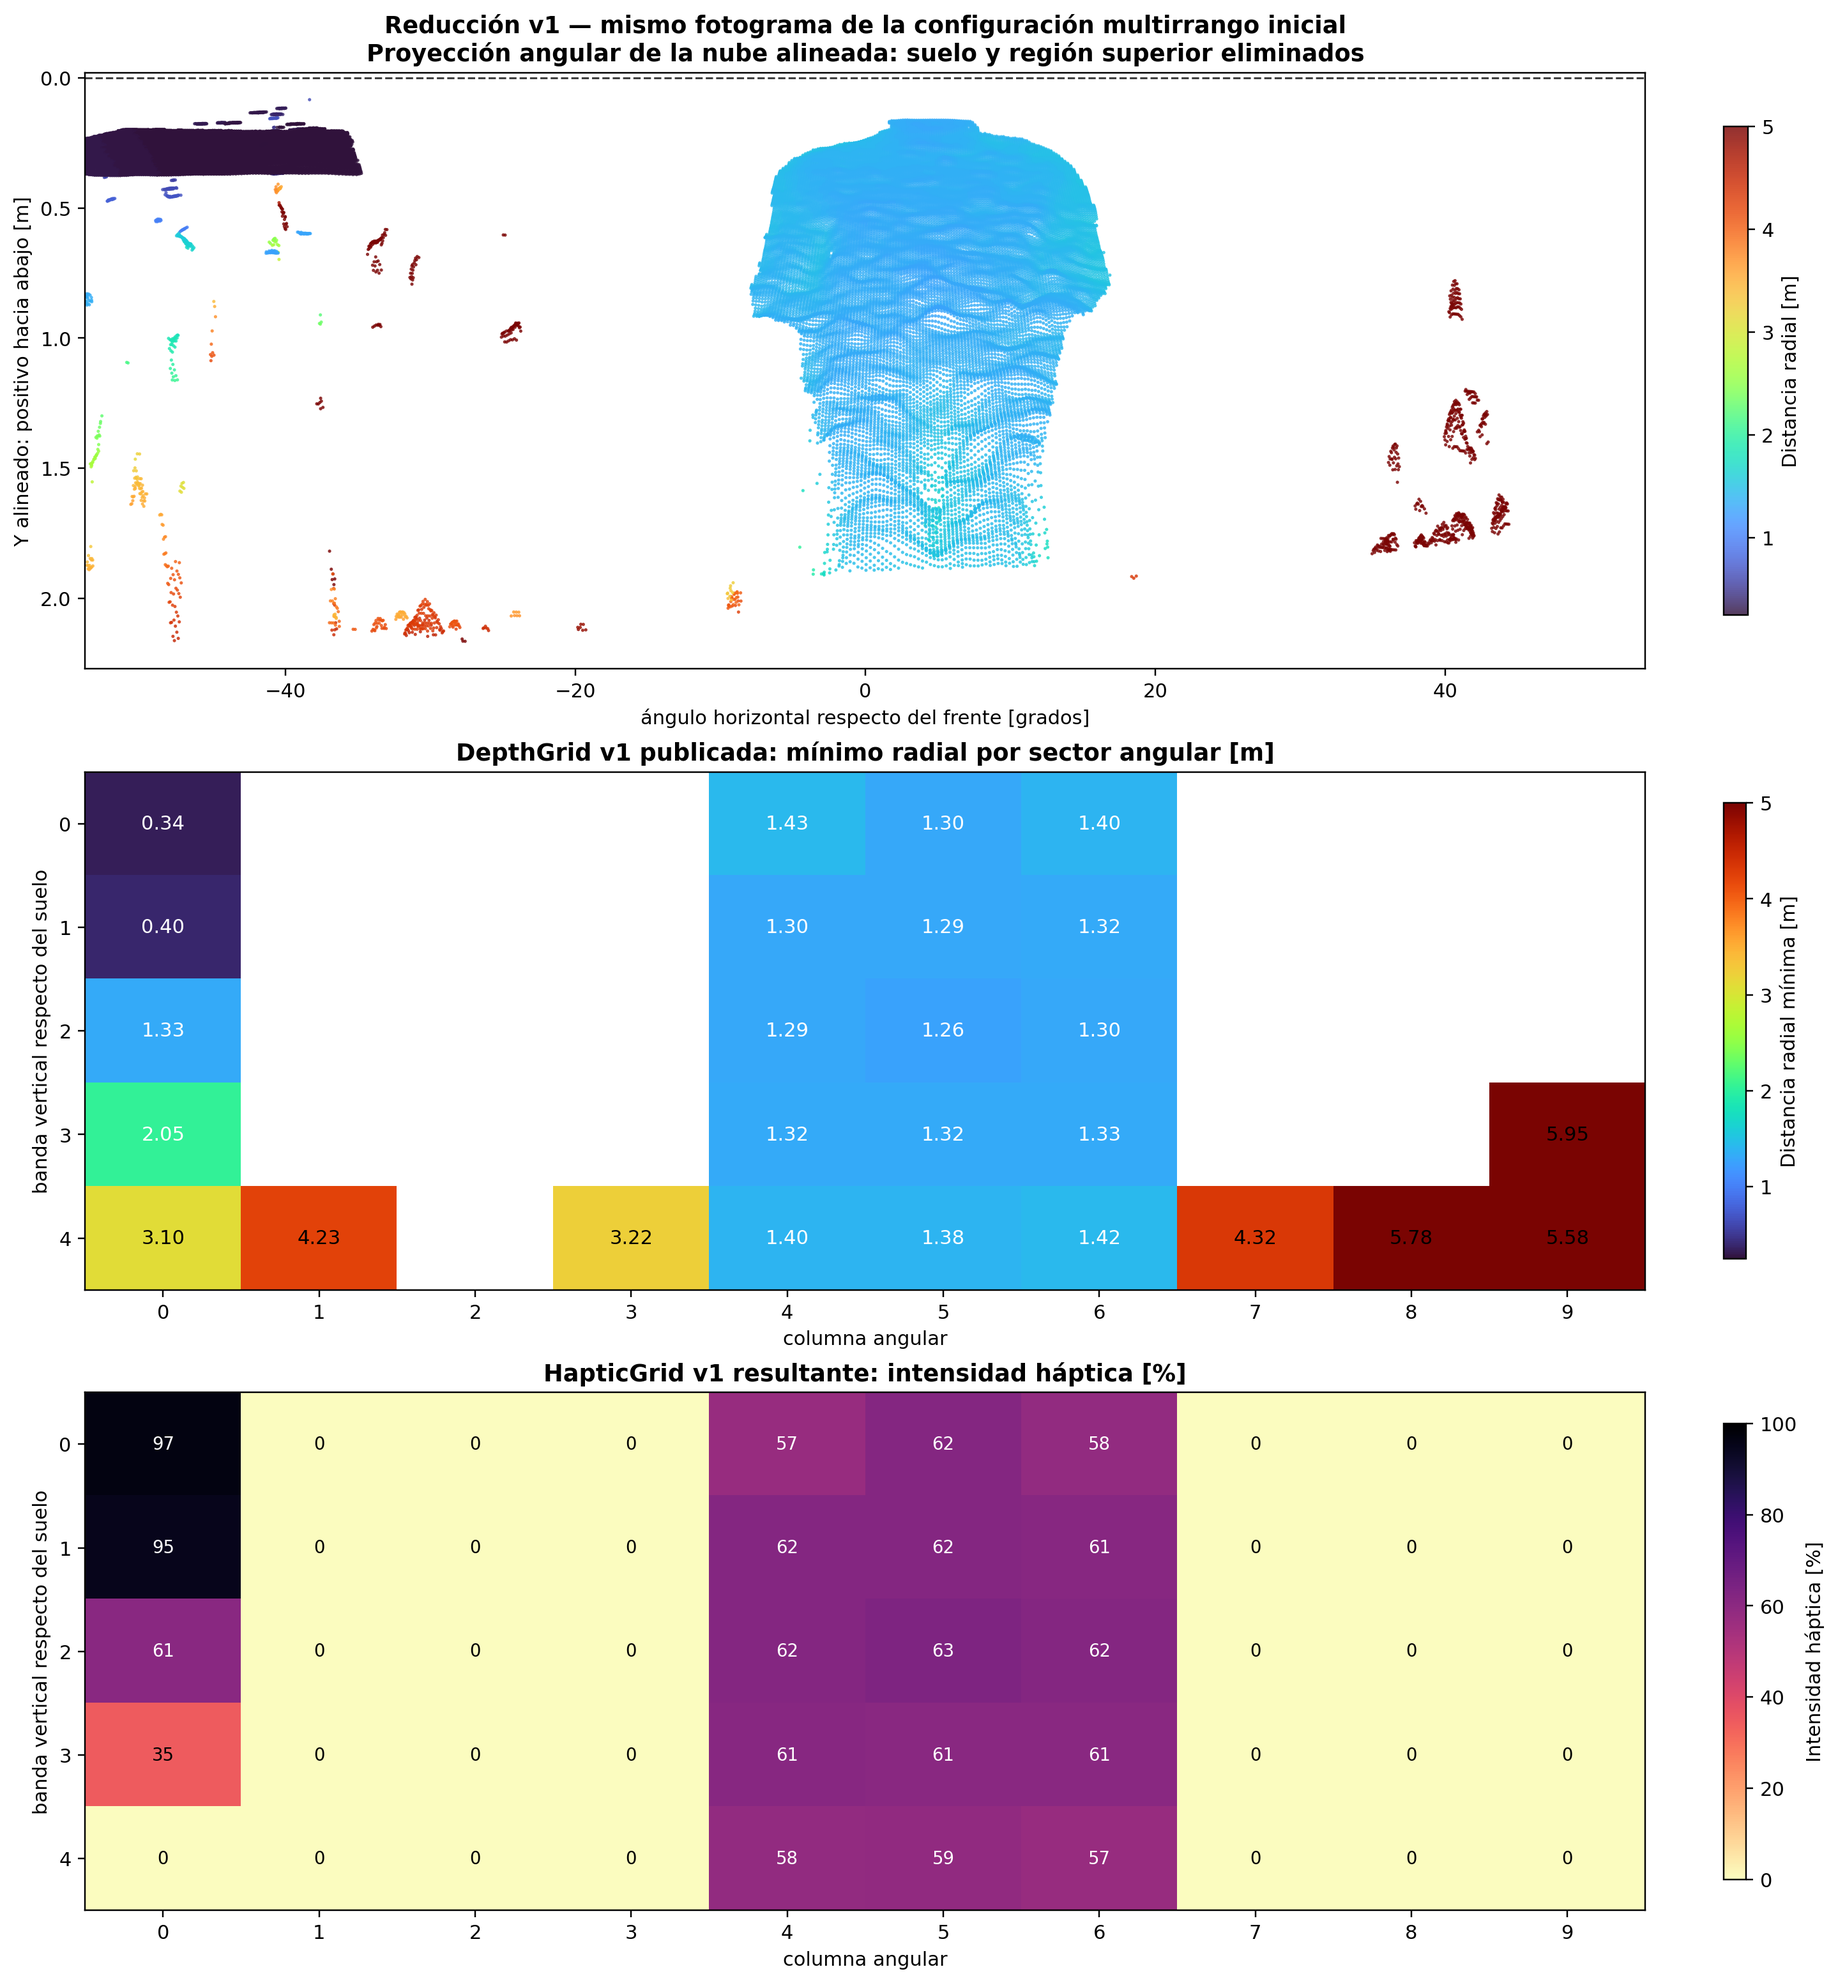
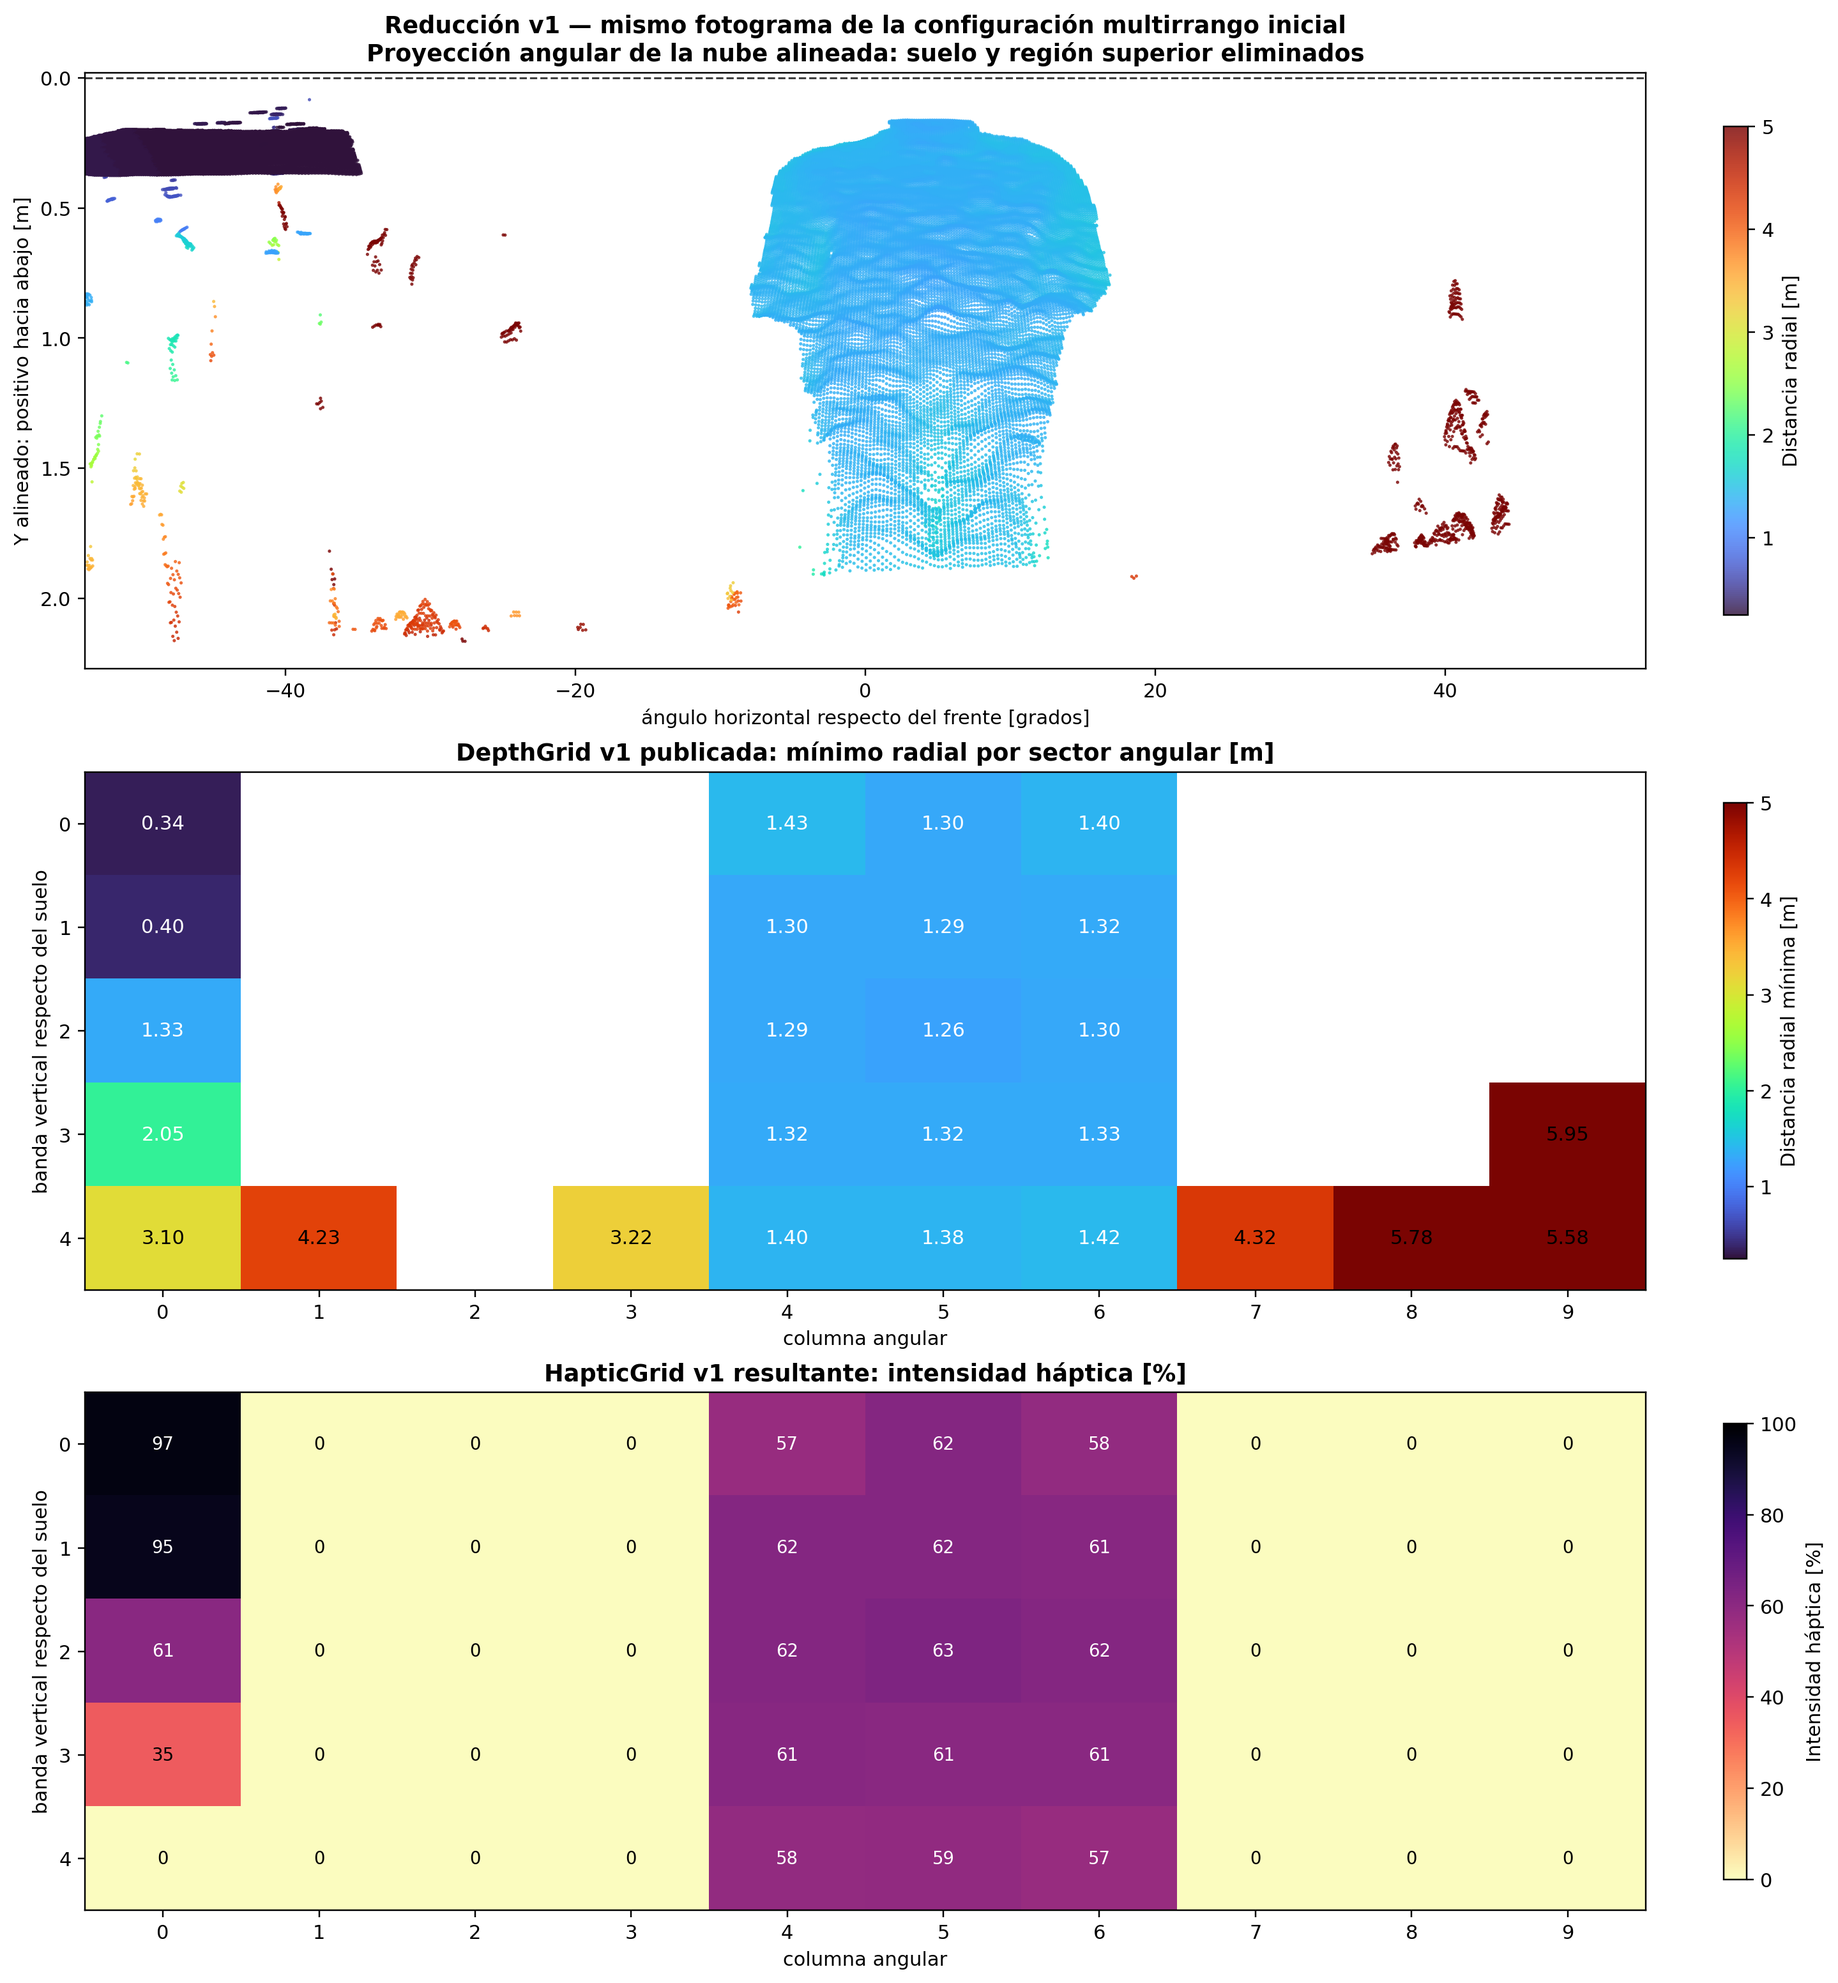
fix: sacar el campo active de HapticGrid ya que no aporta valor que no se pueda representar con intensity=0

diff --git a/Informe/__Graficos/metodo/riesgo_R03/check_spatial_replay.py b/Informe/__Graficos/metodo/riesgo_R03/check_spatial_replay.py
@@ -67,24 +67,24 @@ def main():
         front=np.zeros(len(dist),dtype=np.float32)
         lo,hi=np.float32(args.z_min),np.float32(args.z_max)
         front[valid]=(hi-np.clip(dist[valid],lo,hi))/(hi-lo)*np.float32(100)
-        actual=np.array(m.intensities,dtype=np.float32);actual_active=np.array(m.active)
+        actual=np.array(m.intensities,dtype=np.float32)
         delta=actual-front
         # Recorder ordering does not expose subscriber callback ordering. Search
         # recent published risks, allowing 10 ms recorder scheduling skew.
         indices=np.where((risk_rt<=rt+10_000_000)&(risk_rt>=rt-750_000_000))[0][::-1]
         match=None
         for j in indices:
-            rrt,r=risks[j];expected=front.copy().reshape(shape);enabled=valid.copy().reshape(shape)
+            rrt,r=risks[j];expected=front.copy().reshape(shape)
             if r.valid:
                 for key,cols in [('left',[0]),('right',[m.cols-1]),('rear',list(range((m.cols-2)//2,(m.cols-2)//2+2)))]:
                     v=getattr(r,key)
                     if v.active and v.intensity>0:
                         for col in cols:
-                            expected[:,col]=np.maximum(expected[:,col],np.clip(v.intensity,0,100));enabled[:,col]=True
-            if np.allclose(actual,expected.ravel(),atol=2e-4,rtol=0) and np.array_equal(actual_active,enabled.ravel()):
+                            expected[:,col]=np.maximum(expected[:,col],np.clip(v.intensity,0,100))
+            if np.allclose(actual,expected.ravel(),atol=2e-4,rtol=0):
                 match=dict(risk_t=stamp(r)-t0,regions=[key for key in ['left','right','rear'] if r.valid and getattr(r,key).active],
                     recorded_gap_s=(rt-rrt)*1e-9);break
-        frontal_match=np.allclose(actual,front,atol=2e-4,rtol=0) and np.array_equal(actual_active,valid)
+        frontal_match=np.allclose(actual,front,atol=2e-4,rtol=0)
         extra=int((delta>2e-4).sum())
         check=dict(t=ts-t0,extra_cells=extra,max_increase=float(delta.max()),
             matched_risk=match,frontal_only=bool(frontal_match),source_age_s=age(rt,ts))

diff --git a/Informe/Desarrollo/arquitectura.tex b/Informe/Desarrollo/arquitectura.tex
@@ -86,11 +86,12 @@ El paquete \texttt{custom\_interfaces} concentra los tipos de mensajes específi
 En la cadena de percepción frontal, \texttt{DepthGrid} modela una grilla compacta de celdas y
 \texttt{DepthCellStats} encapsula la estadística de cada celda (media, mínimo, máximo y conteo
 de puntos válidos). En la cadena de actuación, \texttt{HapticGrid} representa la salida final de
-intensidades hápticas con dos arreglos explícitos: \texttt{intensities} y \texttt{active}. Para
-la conciencia espacial, \texttt{DirectionalRisk} describe el riesgo por dirección
-(activación, intensidad, distancia, velocidad de cierre y tiempo hasta colisión) y
-\texttt{SpatialAwareness} agrupa los tres canales \texttt{left}, \texttt{right} y \texttt{rear}
-junto con una bandera de validez global. Esta separación reduce el acoplamiento entre nodos y evita incorporar información de riesgo dentro de un mensaje destinado a percepción.
+intensidades hápticas mediante el arreglo \texttt{intensities}. Para la conciencia espacial,
+\texttt{DirectionalRisk} describe el riesgo por dirección (activación, intensidad, distancia,
+velocidad de cierre y tiempo hasta colisión) y \texttt{SpatialAwareness} agrupa los tres canales
+\texttt{left}, \texttt{right} y \texttt{rear} junto con una bandera de validez global. Esta
+separación reduce el acoplamiento entre nodos y evita incorporar información de riesgo dentro de un
+mensaje destinado a percepción.
 
 La configuración de lanzamiento se centraliza en \code{nav.launch.py}, perteneciente al paquete
 \texttt{nav\_bringup}. Este archivo expone parámetros para habilitar o deshabilitar componentes y
